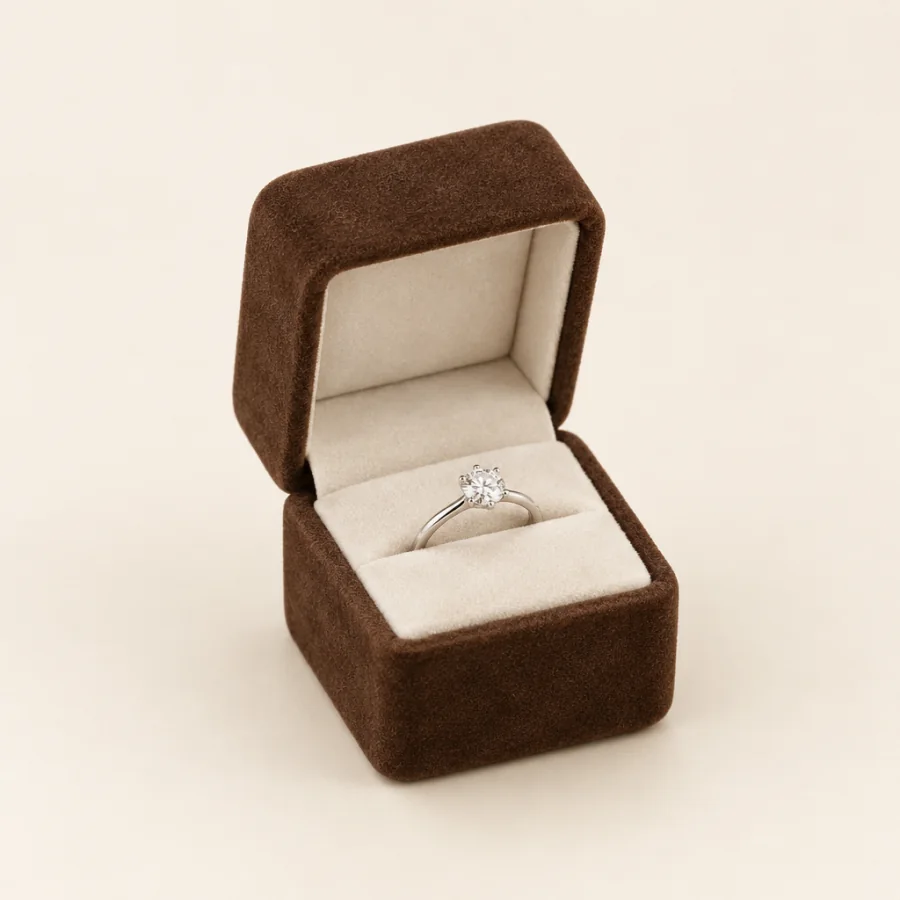
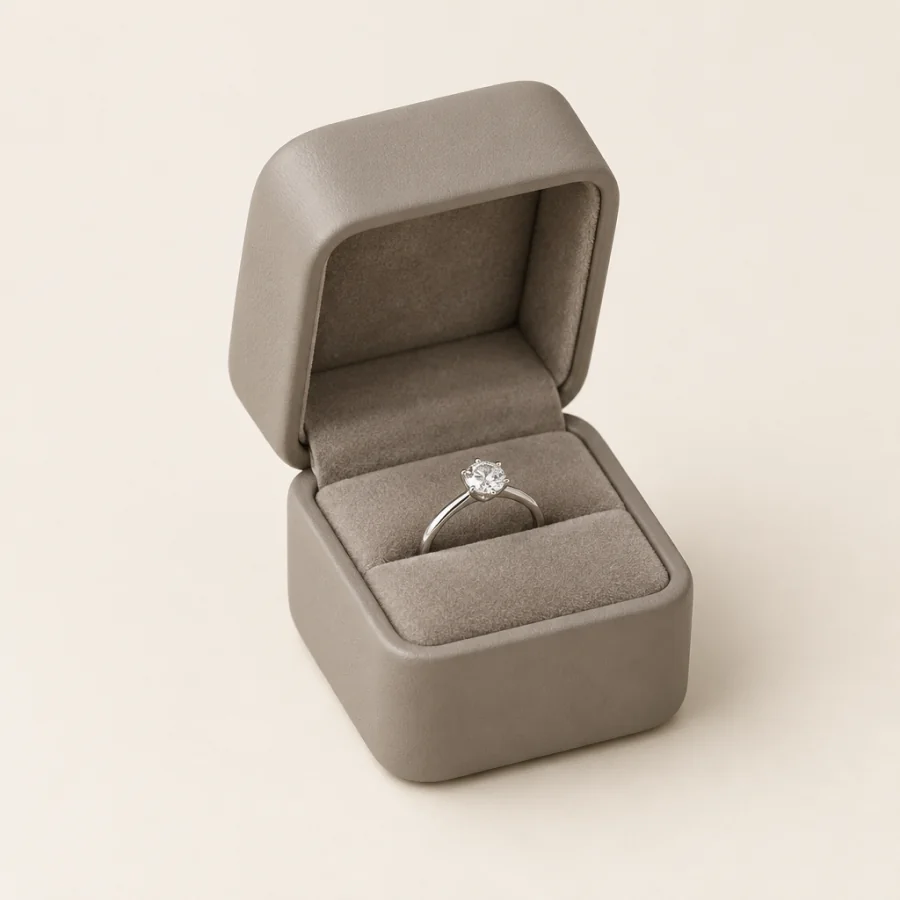
Carvieal: texto e foto (tom taupe) do mini estojo para anel
Claude-Session: https://claude.ai/code/session_01XftsDHsx5FxPGT54fY2VHM

diff --git a/app/(loja)/presente/page.tsx b/app/(loja)/presente/page.tsx
@@ -17,7 +17,7 @@ export const metadata: Metadata = {
 export default async function Presente() {
   const { anel, joias } = await obterEstojos();
   const modelos = [
-    { e: anel, titulo: "Estojo para anel", texto: "Com encaixe acolchoado para um anel.", img: "/img/estojo-anel.webp" },
+    { e: anel, titulo: "Estojo para anel", texto: "Mini estojo em tom taupe, para um anel ou um par de brincos pequenos.", img: "/img/estojo-anel.webp" },
     { e: joias, titulo: "Estojo para brincos, colares e pulseiras", texto: "Serve para brincos, colares e pulseiras.", img: "/img/estojo-joias.webp" },
   ];
   return (
